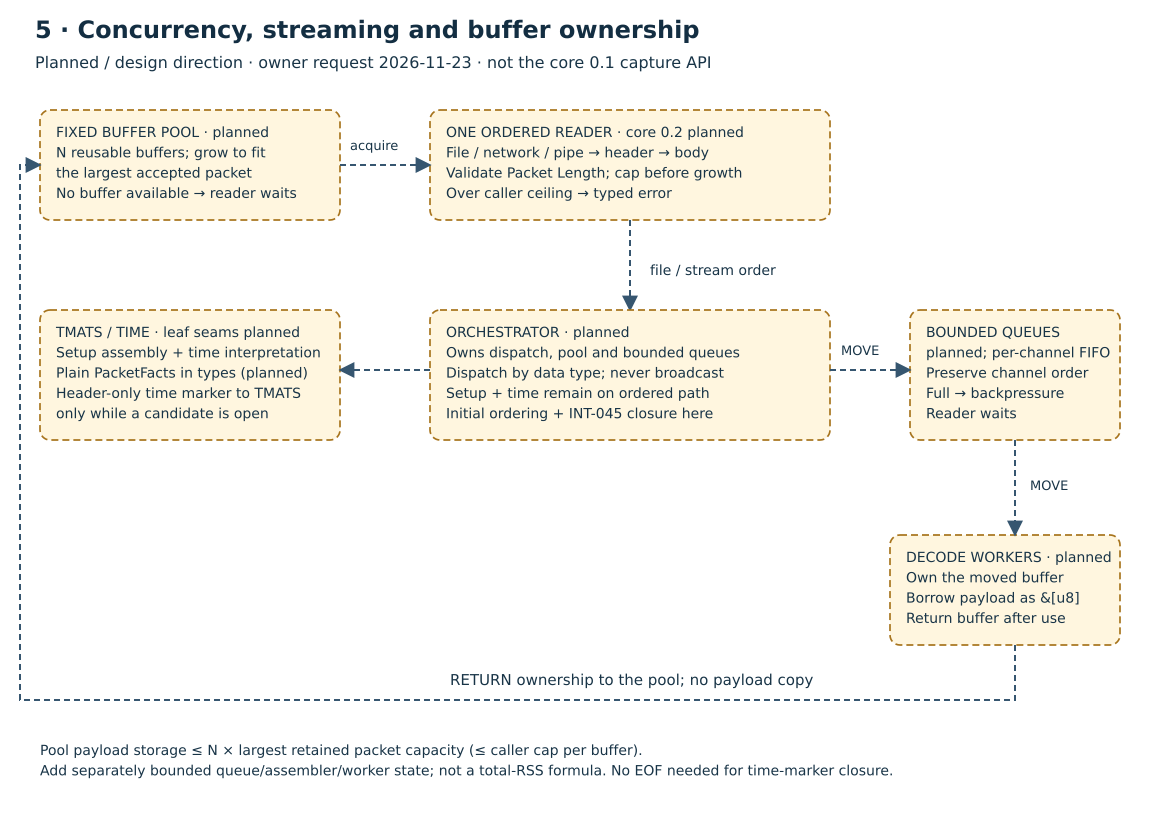
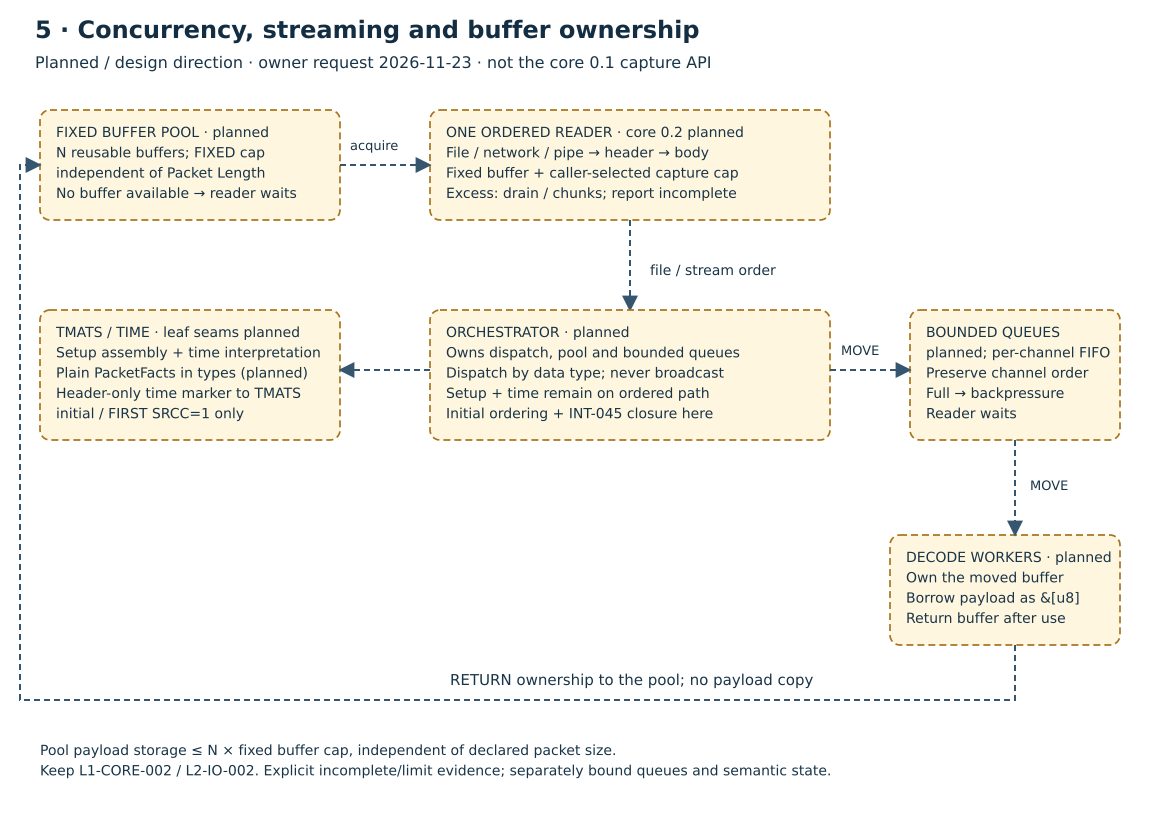
docs: preserve fixed memory bounds and guarded setup seals

diff --git a/src/architecture/pipeline.md b/src/architecture/pipeline.md
@@ -58,11 +58,13 @@ selective dispatch below refines the original all-header forwarding proposal:
 1. Classify each packet once from its header data-type byte. Setup packets go
    to TMATS with core-produced plain `PacketFacts` (**planned**), CSDW and body.
    TMATS observes every header **only during the initial setup phase**, so it
-   can enforce initial ordering and recognize the first trusted time marker.
+   can enforce initial ordering and recognize the first observed time candidate (without skipping an untrusted one).
    `SetupAssembler.observe(...)` is conceptual notation, not a released API.
 2. TMATS tracks independent per-channel candidates. An eligible time marker
-   notifies TMATS only while a candidate is open, including a later setup
-   candidate. On seal, INT-034 assesses completeness separately; eligible
+   notifies TMATS only while a closure-eligible candidate is open: initial setup
+   or a later candidate whose **first fragment has SRCC=1**. First-fragment
+   SRCC=0 retransmissions remain open/provisional outside the extension. On seal,
+   INT-034 assesses completeness separately; eligible
    parsing produces qualified plain declarations and findings (**planned**).
 3. Time packets go to time with the qualified declarations. When a packet also
    closes setup, the cheap header-only marker notification and setup assessment
@@ -97,27 +99,52 @@ carry-forward or provisional-use policy is invented here.
   or interrupt a run. Preserve sequence progression, FRMT/RCCVER agreement,
   fragment provenance, and start/stop evidence. The channel-0 restriction from
   106-17 is an independent conformance check, not permission to merge runs.
-- **Initial closure (INT-045).** The first structurally trusted TIME packet on
-  **any channel** closes the initial per-channel setup candidates immediately
-  before that marker. Its header data type is `0x11`, or `0x12` where defined
+- **Initial closure (INT-045).** The **first observed TIME candidate** on any
+  channel supplies the initial boundary only if it is structurally trusted and
+  eligible. If that first candidate is untrusted, adoption is withheld; a later
+  trusted candidate **does not replace it** as the initial boundary. The eligible
+  header data type is `0x11`, or `0x12` where defined
   from 106-17, under the applicable edition binding. Unknown/reserved types and
   timestamps embedded in other packet bodies are not this signal.
-- **Mid-recording closure.** The next eligible trusted time packet also closes
-  a later setup record, including an update with SRCC=1. This owner decision
-  extends the initial-only proposal in the inspected INT-045 draft.
+- **Mid-recording closure.** The next eligible trusted time packet closes a
+  candidate **only if its FIRST fragment has trusted SRCC=1**. Later fragment
+  bits, majority votes, or repeated SRCC=1 bits do not change eligibility or
+  restart the candidate. First-fragment SRCC=0 retransmissions stay outside
+  this owner extension, open/provisional, even if a later fragment says 1.
 - **Header facts suffice for closure.** No time payload decoding, usable clock,
   UTC answer, or time-source selection is needed to recognize the boundary.
   Header/edition trust still matters; corrupt or unreadable bytes are not a
   trusted marker merely because they resemble a type code.
 
 A sealed run is not automatically complete or governing. INT-034 independently
-assesses complete/incomplete/ambiguous outcomes with their evidence; closure
-cannot repair truncated text, resolve duplicate/split ambiguity, or choose one
-candidate across channels. A valid complete outcome and adoption eligibility
-remain separate gates. A live run without a marker remains open/provisional;
-actual EOF has its own labelled completeness basis and missing-time finding,
-not a fabricated time marker. Detailed INT-034 precedence and provisional
-semantic use remain subject to their own reviewed contracts.
+assesses complete/incomplete/ambiguous outcomes. Cut-mid-attribute text is
+**Incomplete**, with a located finding, not held open for repair by later text.
+Closure cannot choose a governing candidate, fix duplicate/split ambiguity, or
+waive normal validity and integrity gates.
+
+**Premature-seal guard (planned implementation).** A same-channel +1 continuation
+with the same FRMT/RCCVER after a time-boundary seal makes an otherwise Complete
+semicolon-ending candidate **Ambiguous**, with both readings retained and a
+located **“possible premature time-boundary seal”** finding naming the seal and
+continuation. Never rejoin the sealed and later bytes. If reviewed, unambiguous
+`G\SHA` verification **matches the sealed text alone**, that otherwise Complete
+candidate may stay Complete on that explicit classification evidence. Missing,
+mismatching, malformed, unsupported, unavailable, unverified or indeterminate
+verification does not qualify; never stamp or normalize text to obtain a match.
+Continuity, both readings and the finding remain visible even under this
+exception; it is not an authoritative checksum verdict for an unresolved record.
+The existing Incomplete outcome is never repaired by this guard.
+
+Every mid-session Complete produced by the extension carries the basis
+**`time-boundary seal (owner policy)`**, naming the verified `G\SHA` evidence too
+when applicable. **Seal outcomes are revisable** when later continuity arrives:
+retain candidate identity, the earlier boundary and revised findings. This fits
+time's spool-before-publish contract; no timeout makes a seal irrevocable, and
+no publication/spooling implementation is claimed here.
+
+A live run without an eligible marker remains open/provisional. Actual EOF has
+its own labelled INT-034 completeness basis, not a fabricated time marker.
+Provisional use and governing applicability still require their own contracts.
 
 ## 4. Ordering and caller-asserted start
 
@@ -128,9 +155,10 @@ semantic use remain subject to their own reviewed contracts.
 Only **static Computer-Generated Format 1 setup packets** may precede the first
 time packet. Any other intervening packet is an ordering violation: record a
 finding and withhold adoption through this automatic path. A later time marker
-can seal candidates but does not erase the violation. The state diagram's later
-SRCC=1 setup is after the initial time boundary, not an exception to the initial
-static-prefix rule; SRCC alone neither closes nor proves a complete record.
+does not erase an ordering violation or replace an untrusted first observed time
+candidate as the initial boundary. The state diagram's later
+first-fragment SRCC=1 setup is after the initial time boundary, not an exception
+to the initial static-prefix rule; SRCC alone neither closes nor proves a complete record.
 
 **Known start is asserted by the caller**, not inferred from a file offset,
 a first observed setup packet, or successful sync recovery. Retain that provenance;
@@ -151,9 +179,9 @@ table and routes the packet only to the consumer that needs it:
 | Packet / phase | Planned route |
 | --- | --- |
 | Data packets (expected to dominate normal recordings) | Decode only, with qualified declarations and time answers |
-| Time packet | Time; additionally a cheap header-only time-marker notification to TMATS **only while a setup candidate is open** |
+| Time packet | Time; additionally a cheap header-only time-marker notification to TMATS **only while a closure-eligible setup candidate is open** |
 | Setup packet | TMATS, with CSDW and body |
-| Initial setup phase | TMATS also observes every header until the first trusted time boundary, including headers needed to report an ordering violation |
+| Initial setup phase | TMATS also observes every header through the first observed time candidate, whose trust is checked without skipping it, including headers needed to report an ordering violation |
 
 The initial ordering check is the explicit exception to selective data dispatch.
 Outside that phase, there is no general per-packet TMATS callback. The header-only
@@ -171,19 +199,35 @@ consumer without TMATS depending on core.
 
 Payload slices are **borrowed `&[u8]` from one reader buffer**, with no payload
 copy between libraries on the synchronous data path (**planned**). A borrow may
-not survive reuse or growth of its backing buffer. This does not promise no
+not survive reuse of its backing buffer. In the planned API, large bodies use
+fixed-size chunks or an explicitly larger capture cap;
+this is not a promise of a whole-packet slice for every declared length. This does not promise no
 kernel-to-user copy, allocation-free setup assembly, or copy-free owned exports.
 
 ### Reuse packet storage: planned core 0.2 API
 
-The data path targets **no per-packet allocation after sufficient buffer capacity
-has been established**. A reusable grow-on-demand buffer is sized from the
-validated header's **Packet Length before reading the body**, subject to the
-caller's explicit maximum. Check lengths, overflow and the cap before reserving
-storage. Growth may allocate when a larger permitted packet first arrives;
-subsequent packets reuse that capacity. Storage follows the largest accepted
-packet's capacity high-water mark, not the recording's byte count. There is no
-whole-file buffering or unchecked allocation from a wire length.
+The caller chooses **fixed buffer and capture sizes**. Reuse storage up to those
+caps to avoid per-packet allocation; **never grow storage to Packet Length**.
+Header length is framing evidence used to determine how much to consume, not an
+allocation request. For a body larger than the capture cap, drain/skip the
+uncaptured bytes, or deliver fixed-size chunks to a streaming consumer
+(**planned** chunk/reuse API). Formats needing a whole large packet must explicitly
+opt into a larger caller-selected cap or support chunked decoding.
+
+Over-cap handling is **never silent truncation**: expose capture-incomplete
+evidence or a typed limit, as appropriate to the requested operation. Today core
+clamps requested capture to DATA length, checks the explicit capture limit and
+drains uncaptured DATA/trailer; an oversized packet need not be rejected merely
+because only a prefix was requested. A prefix is never passed off as a full body.
+
+Any core 0.2 API must preserve **L1-CORE-002** (memory independent of recording
+and declared packet size) and **L2-IO-002** (no Packet-Length allocations).
+Changing either needs an **owner-approved requirement change plus an RSS control**;
+this documentation does not authorize one. Core slice 8's **64 MiB packet with
+four-byte capture** is the existing counterexample to packet-sized buffering,
+not evidence for it. Memory is determined by explicit caps, independent of
+packet size. See the pinned [core requirements](https://github.com/TelemetryWorks/irig106-core/blob/3c12bcd33b1ae66cca2d6378f4bfe08f2fc8c9a1/docs/requirements.md)
+and [slice 8 evidence](https://github.com/TelemetryWorks/irig106-core/blob/3c12bcd33b1ae66cca2d6378f4bfe08f2fc8c9a1/docs/verification-s08.md).
 
 **Current core 0.1 differs:** its
 [reader implementation](https://github.com/TelemetryWorks/irig106-core/blob/3c12bcd33b1ae66cca2d6378f4bfe08f2fc8c9a1/crates/irig106-core/src/reader.rs)
@@ -200,14 +244,14 @@ the core 0.2 target, not the current core 0.1 owned-capture API.
 
 [SVG source](diagrams/pipeline-buffers.svg) · [PNG export](diagrams/pipeline-buffers.png)
 
-**Buffer sizing.** The header provides Packet Length before the body is read.
-After structural validation and overflow checks, grow a reusable buffer only as
-needed and retain its capacity for later packets. Memory follows the largest
-accepted packet's retained capacity, not the file size. A caller-set ceiling
-makes an over-limit packet a **typed error before growth or body reading**.
-The standard's packet-size cap still needs confirmation with an exact
-edition/section citation in the core proposal; this page adopts no numeric
-standard limit and does not substitute the caller's ceiling for that requirement.
+**Buffer sizing.** Packet Length is known before reading the body, but must not
+size the allocation. The caller selects fixed buffer/capture caps; reusable
+storage stays within them. Excess body bytes are drained/skipped, or streamed in
+fixed-size chunks (**planned**). Whole-packet formats require an explicit larger
+cap or chunk-capable decoding. Capture-incomplete evidence or a typed limit
+reports over-cap handling; no silent truncation. Memory does **not** follow the
+largest declared packet. The standard's packet-size cap still needs an exact
+edition/section citation in the core proposal; no numeric cap is asserted here.
 
 **Is concurrency useful?** These are workload expectations to benchmark, not
 measured results or universal classifications:
@@ -231,25 +275,25 @@ owns and returns ownership to the pool after use. A slice alone cannot outlive
 its backing buffer. There is no inter-library payload copy in this planned path,
 and no unlimited buffer creation when workers fall behind.
 
-Pool payload storage is bounded by **pool size × largest retained packet
-capacity**, with the caller's ceiling bounding each buffer. This is an upper
-bound when buffers have different capacities; add fixed metadata and separately
-bounded queue, assembler and worker state. It is not a whole-process RSS formula.
-Growth allocations remain possible when an accepted packet exceeds the previous
-high-water mark; steady-state reuse is the no-per-packet-allocation target.
+Pool payload storage is bounded by **pool size × fixed buffer cap**, independent
+of declared packet size. Allocate/reuse at the configured cap, not by growth to a
+packet high-water mark. Add fixed metadata and separately bounded queue,
+assembler and worker state; this is not a whole-process RSS formula. Oversized
+bodies require explicit partial-capture evidence, chunk handling, or typed limits.
 
 **Live streaming.** Use the same ownership and dispatch shape for network or
 pipe input after the applicable transport framing adapter. Bounded queues give
 **backpressure**: the reader waits if a worker queue is full or no pool buffer is
 free. A transport that cannot be paused, such as a UDP sender, may still lose
-packets upstream; bounded memory is not a lossless-delivery guarantee. Setup
-closes at the next eligible trusted time packet, initially or mid-recording, so
-that closure **does not require EOF**. No time marker means the candidate stays
+packets upstream; bounded memory is not a lossless-delivery guarantee. Eligible setup closes at a trusted time boundary **without EOF**: the initial
+boundary must be the first observed time candidate, and mid-session closure
+requires first-fragment SRCC=1. First-fragment SRCC=0 remains open/provisional;
+an untrusted first time candidate cannot be replaced for initial adoption. No time marker means the candidate stays
 open/provisional; do not synthesize EOF or silently relax completeness checks.
 
 | Location | Planned responsibility |
 | --- | --- |
-| `irig106-core` 0.2 | The one reader, reusable owned buffers suitable for `Send` transfer, checked sizing and typed ceiling errors |
+| `irig106-core` 0.2 | The one reader, reusable owned buffers suitable for `Send` transfer, fixed buffer/capture caps, drain or planned fixed-size chunk delivery, explicit incomplete/limit evidence |
 | Orchestrator | Type dispatch, fixed pool, bounded queues, per-channel scheduling and ordered setup/time context |
 | `irig106-types` | Small header-only `PacketFacts` shared by producer and consumers |
 | TMATS / time / decode leaves | Selected semantic work; no second reader, hidden queue or recording walk. Time depends only on types; TMATS stays independent of core |
@@ -263,7 +307,7 @@ an enforced rate cap; data-time answer queries can be much more frequent.
 
 Add reproducible **throughput** and **allocations-per-packet** benchmarks and a
 CI regression gate, following the existing RSS-regression approach. Cover steady
-state separately from first-packet/growth allocations, varying packet sizes,
+state separately from configured buffer/pool initialization allocations, varying packet sizes,
 setup/time transitions, channel count and pool backpressure. Report hardware,
 fixtures, capture/validation settings, capacity limits and allocation accounting.
 The current core RSS test does not prove any of these new targets. No throughput
@@ -278,23 +322,26 @@ them while staying independent of core. This is the authority for the decided
 boundary above; the type remains planned until implemented.
 
 Source inspection on 2026-11-23; no sibling builds or tests were run for this page.
-The owner request of that date is authority for the new closure/ordering decisions
-above. The pinned TMATS sources below still call INT-045 an **unapproved,
-initial-only proposal**; they do not yet record the owner's new mid-recording
-extension. These diagrams document the new direction as **planned**, not as a
-shipped assembler or a retroactive change to those source records.
+The owner review handoff of 2026-11-23 records INT-045 as **approved**, including
+the initial rule and first-fragment SRCC=1 mid-session extension, with independent
+AI **CONCUR at `79b94eb`** (merged as `8eefd96` in
+[TMATS PR #41](https://github.com/TelemetryWorks/irig106-tmats/pull/41)). The pinned
+contract contains the amended safety rules; its older “recheck pending” status
+labels predate that reported concurrence. Approval is design authority, not
+implementation or test completion. Assembly, borrowed-buffer reuse, chunked
+consumption and the orchestration shown here remain **planned**.
 
 - Core `3c12bcd`: [0.1 API](https://github.com/TelemetryWorks/irig106-core/blob/3c12bcd33b1ae66cca2d6378f4bfe08f2fc8c9a1/docs/api.md)
   and [requirements](https://github.com/TelemetryWorks/irig106-core/blob/3c12bcd33b1ae66cca2d6378f4bfe08f2fc8c9a1/docs/requirements.md).
 - Time `5899806`: [architecture](https://github.com/TelemetryWorks/irig106-time/blob/5899806ae684ed38d8cad8f422cabb3d47c6be0f/docs/architecture.md),
   [ADR-0005 leaf boundary](https://github.com/TelemetryWorks/irig106-time/blob/5899806ae684ed38d8cad8f422cabb3d47c6be0f/docs/adr/0005-leaf-library-depending-only-on-irig106-types.md),
   and [ADR-0021 time-view seam](https://github.com/TelemetryWorks/irig106-time/blob/5899806ae684ed38d8cad8f422cabb3d47c6be0f/docs/adr/0021-tmats-release-and-bounded-time-view.md).
-- TMATS `0a9f010`: [release/time-view contract](https://github.com/TelemetryWorks/irig106-tmats/blob/0a9f010cdd031bfb967cd21a495924558e9112d7/docs/RELEASE-0.1.md),
-  [INT-011](https://github.com/TelemetryWorks/irig106-tmats/blob/0a9f010cdd031bfb967cd21a495924558e9112d7/docs/INTERPRETATIONS.md#int-011),
-  [INT-034](https://github.com/TelemetryWorks/irig106-tmats/blob/0a9f010cdd031bfb967cd21a495924558e9112d7/docs/INTERPRETATIONS.md#int-034),
-  [INT-045](https://github.com/TelemetryWorks/irig106-tmats/blob/0a9f010cdd031bfb967cd21a495924558e9112d7/docs/INTERPRETATIONS.md#int-045),
-  [ADR-0025 assembly](https://github.com/TelemetryWorks/irig106-tmats/blob/0a9f010cdd031bfb967cd21a495924558e9112d7/docs/adr/0025-setup-record-assembly-contract.md),
-  and [ADR-0031 completeness](https://github.com/TelemetryWorks/irig106-tmats/blob/0a9f010cdd031bfb967cd21a495924558e9112d7/docs/adr/0031-setup-record-completeness.md).
+- TMATS `8eefd96`: [release/time-view contract](https://github.com/TelemetryWorks/irig106-tmats/blob/8eefd96c30f80cdf676aa0a13e090bbebe948e2d/docs/RELEASE-0.1.md),
+  [INT-011](https://github.com/TelemetryWorks/irig106-tmats/blob/8eefd96c30f80cdf676aa0a13e090bbebe948e2d/docs/INTERPRETATIONS.md#int-011),
+  [INT-034](https://github.com/TelemetryWorks/irig106-tmats/blob/8eefd96c30f80cdf676aa0a13e090bbebe948e2d/docs/INTERPRETATIONS.md#int-034),
+  [INT-045](https://github.com/TelemetryWorks/irig106-tmats/blob/8eefd96c30f80cdf676aa0a13e090bbebe948e2d/docs/INTERPRETATIONS.md#int-045),
+  [ADR-0025 assembly](https://github.com/TelemetryWorks/irig106-tmats/blob/8eefd96c30f80cdf676aa0a13e090bbebe948e2d/docs/adr/0025-setup-record-assembly-contract.md),
+  and [ADR-0031 completeness](https://github.com/TelemetryWorks/irig106-tmats/blob/8eefd96c30f80cdf676aa0a13e090bbebe948e2d/docs/adr/0031-setup-record-completeness.md).
 
 SVGs are self-contained XML with accessible titles/descriptions and no external
 fonts, scripts, or images. The small committed PNGs are rendered from their
